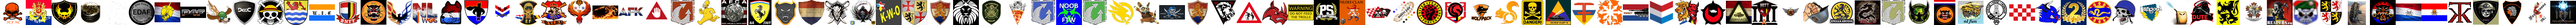
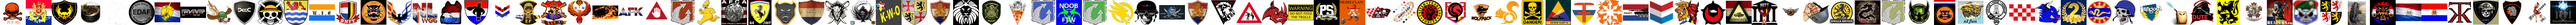
tried to fix the image problem
I finaly found the problem because a notested a huge amount of ram usage by the script and it keeps growing depending on the images that it merges

Changed region(s): [[0.4375, 0.0312, 0.4688, 0.9375]]

diff --git a/www/js/tests.js b/www/js/tests.js
@@ -1,0 +1,139 @@
+Object.defineProperty(Array.prototype, 'chunk_inefficient', {
+  value: function(chunkSize) {
+    var array=this;
+    return [].concat.apply([],
+      array.map(function(elem,i) {
+        return i%chunkSize ? [] : [array.slice(i,i+chunkSize)];
+      })
+    );
+  }
+});
+
+var tests = new Vue({
+  el: '.test-main',
+  data: {
+    reqtestdune: false,
+    requrls: [],
+    imgtestdune: false,
+    imgtest: ''
+  },
+  methods: {
+    starttest: function() {
+      var vm = this;
+      function reqfiles() {
+        var requrls = [
+          '/',
+          '/css/home.css',
+          '/dyjs/vue.js',
+          '/js/anime.min.js',
+          '/dyjs/script.js',
+          '/js/underscore.min.js',
+          '/dyjs/changeclandata.js',
+          '/css/home.css',
+          '/clandata-firstload/',
+          '/clandata-load2/',
+          '/clan/true',
+          '/mediatemplate',
+          '/img/clanicons-0.png',
+          '/img/clanicons-0.min.png',
+          '/css/media.css',
+          '/clanmedia/'
+        ]
+        var errors = []
+        function req(id) {
+          var requrl = requrls[id]
+          try {
+            fetch(requrl, {credentials: 'same-origin',mode: 'cors'})
+            .then(function(response) {
+              console.log(response);
+              if (!response.ok || response.status == 404) {
+                errors.push({
+                  url: requrl,
+                  what: response.statusText
+                })
+              }
+              return response.text();
+            })
+            .then(function(text) {
+              if (requrls[id + 1]) {
+                req(id + 1)
+              } else {
+                result()
+              }
+            })
+            .catch(function(error) {
+              errors.push({
+                url: requrl,
+                what: error
+              })
+              if (requrls[id + 1]) {
+                req(id + 1)
+              } else {
+                result()
+              }
+            });
+          } catch (e) {
+            errors.push({
+              url: requrl,
+              what: e
+            })
+            if (requrls[id + 1]) {
+              req(id + 1)
+            } else {
+              result()
+            }
+          }
+        }
+        function result() {
+          console.log('dune testing url\'s');
+          vm.reqtestdune = true;
+          vm.requrls = errors;
+          testimgs()
+        }
+        req(0)
+      }
+      function testimgs() {
+        var errors = ''
+        try {
+          fetch('/clandata-firstload/', {credentials: 'same-origin',mode: 'cors'})
+          .then(function(response) {
+            return response.json();
+          })
+          .then(function(resjson) {
+            var chunkicons = resjson.chunk_inefficient(100)
+            var testedicons = 0;
+            for (var i = 0; i < chunkicons.length; i++) {
+              var objImage = new Image();
+              objImage.src ='/img/clanicons-' + i + '.min.png';
+              objImage.onload = function(e) {
+                // console.log(e);
+                testedicons ++
+                if (testedicons == chunkicons.length) {
+                  final()
+                }
+              }
+              objImage.onerror = function(e) {
+                errors = 'Icon\'s file not loading';
+                testedicons ++
+                if (testedicons == chunkicons.length) {
+                  final()
+                }
+              }
+            }
+          })
+          .catch(function(error) {
+            errors = error
+          });
+        } catch (error) {
+          errors = error
+        }
+        function final() {
+          vm.imgtestdune = true;
+          vm.imgtest = errors;
+          console.log('dune testing imgs');
+        }
+      }
+      reqfiles()
+    }
+  }
+})

diff --git a/www/tests/index.html b/www/tests/index.html
@@ -1,0 +1,48 @@
+<!DOCTYPE html>
+<html>
+  <head>
+    <meta charset="utf-8">
+    <title>Test | Wot NL/BE clans</title>
+    <link rel="stylesheet" href="/css/test.css">
+    <meta name="viewport" content="width=device-width, initial-scale=1">
+    <meta name="theme-color" content="#212121">
+    <link href="https://fonts.googleapis.com/css?family=Roboto" rel="stylesheet">
+    <link rel="icon" href="/icons/favicon-32x32.png" type="image/png">
+    <link rel="icon" type="image/png" href="/icons/appicon-192.png" sizes="192x192" />
+    <link rel="icon" type="image/png" href="/icons/favicon-96x96.png" sizes="96x96" />
+    <link rel="icon" type="image/png" href="/icons/favicon-32x32.png" sizes="32x32" />
+    <link rel="icon" type="image/png" href="/icons/favicon-16x16.png" sizes="16x16" />
+    <link rel="icon" type="image/png" href="/icons/favicon-128.png" sizes="128x128" />
+    <style>
+      [v-cloak] {
+        display: none;
+      }
+    </style>
+  </head>
+  <body>
+    <div class="test-main" v-cloak>
+      <h1>Test if site works</h1>
+      <p>A section for devolopment to test if all the things still work</p>
+      <button type="button" name="button" v-on:click="starttest">Run tests</button>
+      <div class="test" v-if="reqtestdune">
+        <div class="passed" v-if="requrls.length == 0">
+          <h3><span>Passed</span> reqesting all files</h3>
+        </div>
+        <div class="notpassed" v-else>
+          {{ requrls }}
+        </div>
+      </div>
+      <div class="test" v-if="imgtestdune">
+        <div class="passed" v-if="imgtest == ''">
+          <h3><span>Passed</span> getting the right imgs</h3>
+        </div>
+        <div class="notpassed" v-else>
+          {{ imgtest }}
+        </div>
+      </div>
+    </div>
+    <script src='/dyjs/vue.js'></script>
+    <script src='/js/underscore.min.js'></script>
+    <script src='/js/tests.js'></script>
+  </body>
+</html>

diff --git a/serv.js b/serv.js
@@ -1169,6 +1169,7 @@ function mkimg() {
           reqimg(i+1)
         } else {
           createimg()
+          return false;
         }
       });
     }
@@ -1181,11 +1182,14 @@ function mkimg() {
       var tomerge = multipleimgs[to];
       mergeImg(tomerge).then((img) => {
         img.write('./www/img/clanicons-' + to + '.png', () => {
+          img = null
           if (multipleimgs[to + 1]) {
             startmerge(to + 1)
           } else {
             console.log('dune getting all clan icons');
+            tomerge = null
             resizeimgs(0)
+            return false;
           }
         });
       });
@@ -1199,6 +1203,8 @@ function mkimg() {
         resizeimgs(open + 1)
       } else {
         console.log('wrote all icons to file');
+        imgs = []
+        return false;
       }
     }
     reqimg(0)
@@ -1207,14 +1213,14 @@ function mkimg() {
 
 // Create array chunks
 Object.defineProperty(Array.prototype, 'chunk_inefficient', {
-    value: function(chunkSize) {
-        var array=this;
-        return [].concat.apply([],
-            array.map(function(elem,i) {
-                return i%chunkSize ? [] : [array.slice(i,i+chunkSize)];
-            })
-        );
-    }
+  value: function(chunkSize) {
+    var array=this;
+    return [].concat.apply([],
+      array.map(function(elem,i) {
+        return i%chunkSize ? [] : [array.slice(i,i+chunkSize)];
+      })
+    );
+  }
 });
 
 // validation functions from old site

diff --git a/www/css/test.sass b/www/css/test.sass
@@ -1,0 +1,22 @@
+*
+  padding: 0px
+  border: 0px
+  margin: 0px
+  touch-action: manipulation
+  font-family: 'Roboto', sans-serif
+body
+  background-color: #E1E2E1
+
+.test-main
+  padding: 10px
+  background-color: white
+  box-shadow: 0 1px 3px rgba(0,0,0,0.12), 0 1px 2px rgba(0,0,0,0.24)
+  box-sizing: border-box
+  margin: 10px
+  button
+    font-size: 20px
+    padding: 5px 10px
+    border-radius: 3px
+    background-color: white
+    box-shadow: 0 3px 6px rgba(0,0,0,0.16), 0 3px 6px rgba(0,0,0,0.23)
+    cursor: pointer

diff --git a/www/css/test.css b/www/css/test.css
@@ -1,0 +1,1 @@
+*{padding:0px;border:0px;margin:0px;touch-action:manipulation;font-family:'Roboto', sans-serif}body{background-color:#E1E2E1}.test-main{padding:10px;background-color:white;box-shadow:0 1px 3px rgba(0,0,0,0.12),0 1px 2px rgba(0,0,0,0.24);box-sizing:border-box;margin:10px}.test-main button{font-size:20px;padding:5px 10px;border-radius:3px;background-color:white;box-shadow:0 3px 6px rgba(0,0,0,0.16),0 3px 6px rgba(0,0,0,0.23);cursor:pointer}

diff --git a/README.md b/README.md
@@ -30,7 +30,8 @@ On this site you can view the all the NL/BE clans and their stats
 
 ## Bugs  
 - On Windows you can't get clan data  
-- Start script may not start on windows, solution run "node Dev-False.js" and then "node serv.js"   
+- Start script may not start on windows, solution run "node Dev-False.js" or "node Dev-True.js" and then "node serv.js"   
+- The script will crash after a view days depending on the ram size  
 
 ## Screenshots  
 ![Screenshot1](https://github.com/mjarkk/wotnlclans/blob/master/www/img/s1.png)  
